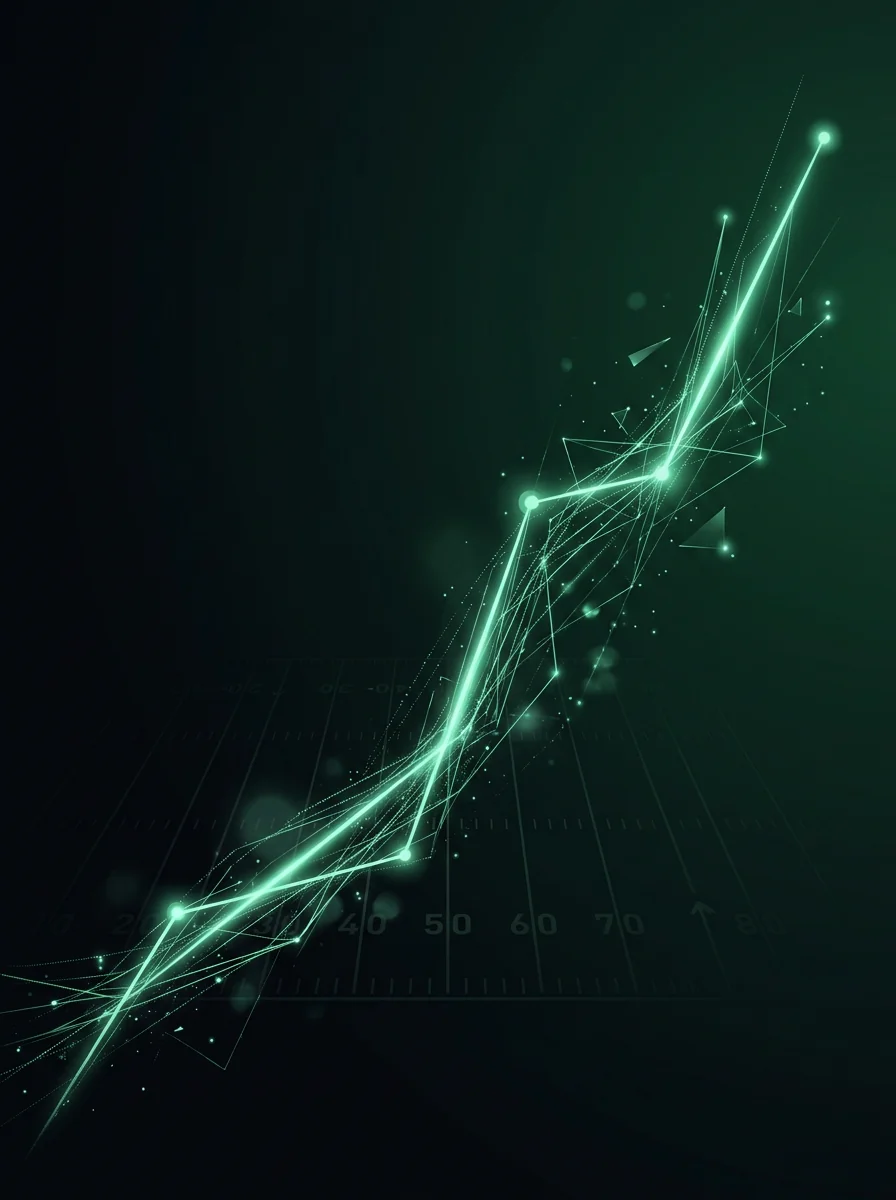
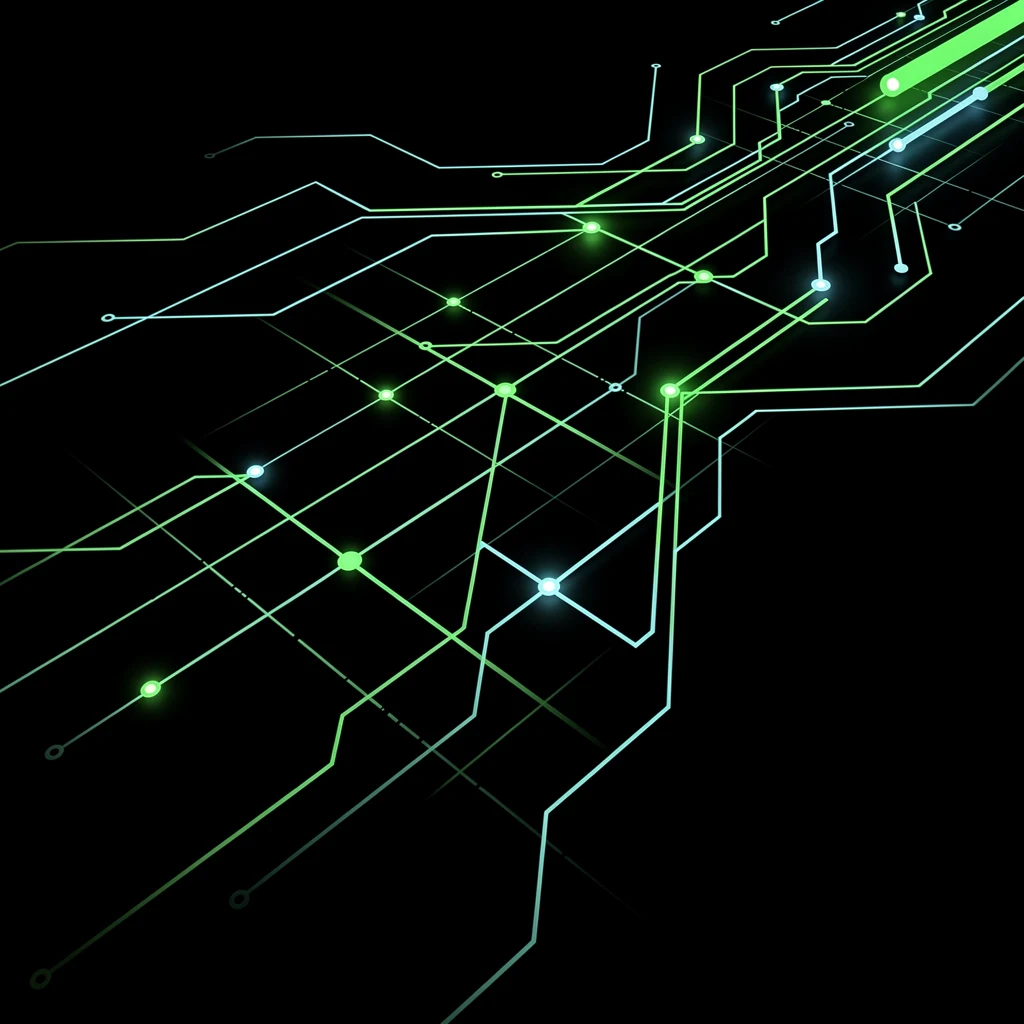
Design system refresh: zinc/emerald premium dark theme, app-wide
Full palette remap in :root — every component in this app already
reads color exclusively through CSS custom properties, so this one
token block cascades the new identity to every screen at once with
zero markup changes and zero risk of touching working logic:

- Background: real Tailwind zinc-950/900/800 (was a bespoke near-black
  green) — the "Linear meets Sleeper/DraftKings" slate/zinc look.
- Accent family: electric emerald-400 (primary, was a muted mint),
  cyan-400 (secondary/metrics), violet-400 (tertiary highlight),
  rose-400 (risk), amber-400 (caution) — semantic meaning preserved
  (green=good, red=risk) from the old palette, only the actual hex
  values move to a punchier, higher-contrast set.
- Real 4px spacing scale (--space-1 through --space-12) added for new
  work to reach for, rather than a risky mechanical retrofit of every
  existing hardcoded padding value across the whole stylesheet.
- New .lift-hover utility (real card hover-lift, reusing the exact
  --ease-snap spring already sourced from this app's own Figma file
  months ago — get_motion_context, CUSTOM_SPRING bounce: 0.45 — rather
  than a hand-guessed easing) — wired onto My Team's team cards now,
  a shared class any other card can opt into next.
- Real .tabular utility (font-variant-numeric: tabular-nums) for
  numerical data, applied to My Team's proj numbers; was already
  referenced by class name in three Start/Sit templates from an earlier
[…]

diff --git a/static/style.css b/static/style.css
@@ -1,44 +1,104 @@
+/* ==========================================================================
+   DESIGN SYSTEM REFRESH — zinc/slate premium dark theme, electric
+   emerald/cyan/violet accent family, a real 4px spacing scale. Every
+   component in this app already reads color/spacing exclusively through
+   these custom properties (no component hardcodes a hex value) — so
+   this one block is the entire visual identity of the app, and remapping
+   it cascades to every screen at once, safely, with zero markup changes.
+   Semantic meaning is preserved from the previous palette (green=good/
+   start, red=risk/sit, amber=caution, cyan=info, violet=highlight) —
+   only the actual hex values move to a punchier, higher-contrast set.
+   ========================================================================== */
 :root {
-  --bg: #07100c;
-  --panel: #0d1613;
-  --panel-2: #121f1a;
-  --panel-glass: rgba(19, 31, 26, 0.6);
-  --border: rgba(255,255,255,0.055);
-  --border-bright: rgba(87,226,164,0.22);
-  --text: #eef6f1;
-  --muted: #7f9689;
-  --accent: #5eeead;
-  --accent-dim: #2f9e6f;
-  --accent-glow: rgba(94, 238, 173, 0.35);
-  --brand: #1f6f52;
-  --pos: #5eeead;
-  --neg: #ff6b81;
-  --soft: #5eeead;
-  --tough: #ff6b81;
-  --avg: #e8c15c;
-  --info: #64c2ec;
-  --neg-glow: rgba(255, 107, 129, 0.35);
-  --avg-glow: rgba(232, 193, 92, 0.35);
-  --info-glow: rgba(100, 194, 236, 0.35);
-  --violet: #a78bfa;
-  --violet-glow: rgba(167, 139, 250, 0.35);
+  /* --- surfaces (real Tailwind zinc scale) --- */
+  --bg: #09090b;              /* zinc-950 */
+  --panel: #18181b;           /* zinc-900 */
+  --panel-2: #202023;         /* zinc-800, slightly warmed */
+  --panel-glass: rgba(24, 24, 27, 0.68);
+  --border: rgba(255,255,255,0.08);       /* reads close to zinc-800 (#27272a) on this bg */
+  --border-bright: rgba(52, 211, 153, 0.28);
+  --text: #fafafa;            /* zinc-50 — high-contrast headers */
+  --muted: #a1a1aa;           /* zinc-400 — subtle sub-labels, exactly as spec'd */
+  --muted-dim: #71717a;       /* zinc-500 — tertiary/caption text */
+
+  /* --- electric accent family --- */
+  --accent: #34d399;          /* emerald-400 — primary accent */
+  --accent-dim: #10b981;      /* emerald-500 — pressed/dim state */
+  --accent-glow: rgba(52, 211, 153, 0.38);
+  --brand: #059669;           /* emerald-600 */
+  --pos: #34d399;
+  --neg: #fb7185;             /* rose-400 — risk/sit */
+  --soft: #34d399;
+  --tough: #fb7185;
+  --avg: #fbbf24;             /* amber-400 — caution */
+  --info: #22d3ee;            /* cyan-400 — secondary/metrics */
+  --neg-glow: rgba(251, 113, 133, 0.38);
+  --avg-glow: rgba(251, 191, 36, 0.35);
+  --info-glow: rgba(34, 211, 238, 0.38);
+  --violet: #a78bfa;          /* violet-400 — tertiary highlight */
+  --violet-glow: rgba(167, 139, 250, 0.38);
+
+  /* --- 4px spacing rhythm (Tailwind-scale) — new work should reach for
+     these instead of one-off px values; existing components keep their
+     already-tuned spacing rather than a risky mechanical find/replace
+     across the whole stylesheet --- */
+  --space-1: 4px;
+  --space-2: 8px;
+  --space-3: 12px;
+  --space-4: 16px;
+  --space-5: 20px;
+  --space-6: 24px;
+  --space-8: 32px;
+  --space-10: 40px;
+  --space-12: 48px;
 
   --radius-sm: 8px;
   --radius: 16px;
   --radius-lg: 22px;
 
-  --shadow-sm: 0 1px 2px rgba(0,0,0,0.3);
-  --shadow: 0 1px 1px rgba(0,0,0,0.2), 0 10px 28px -8px rgba(0,0,0,0.55), 0 2px 10px -4px rgba(0,0,0,0.4);
-  --shadow-lift: 0 20px 44px -12px rgba(0,0,0,0.6), 0 0 0 1px rgba(255,255,255,0.04);
-  --shadow-glow: 0 1px 1px rgba(0,0,0,0.2), 0 10px 28px -8px rgba(0,0,0,0.55), 0 0 32px -6px var(--accent-glow);
+  --shadow-sm: 0 1px 2px rgba(0,0,0,0.4);
+  --shadow: 0 1px 1px rgba(0,0,0,0.3), 0 10px 28px -8px rgba(0,0,0,0.65), 0 2px 10px -4px rgba(0,0,0,0.5);
+  --shadow-lift: 0 24px 48px -14px rgba(0,0,0,0.7), 0 0 0 1px rgba(255,255,255,0.05);
+  --shadow-glow: 0 1px 1px rgba(0,0,0,0.3), 0 10px 28px -8px rgba(0,0,0,0.65), 0 0 32px -6px var(--accent-glow);
 
   --ease: cubic-bezier(0.16, 1, 0.3, 1);
+  /* the real spring already pulled from this app's own Figma file via
+     get_motion_context (CUSTOM_SPRING bounce: 0.45, confirmed live on
+     the Primary Button press and reused for every "pop" moment since —
+     the Projection Breakdown badge, Start/Sit's confidence rings/tier
+     badges) — --ease-snap stays the same real curve, only the palette
+     around it changed. New hover-lift micro-interactions below reuse it
+     too, rather than a hand-guessed easing. */
   --ease-snap: cubic-bezier(0.34, 1.56, 0.64, 1);
   --dur: 220ms;
 
   --mono: "Roboto Mono", ui-monospace, "SF Mono", "Cascadia Code", "JetBrains Mono", Menlo, Consolas, monospace;
   --sans: "Source Sans 3", -apple-system, BlinkMacSystemFont, "Segoe UI", Roboto, Inter, Arial, sans-serif;
 }
+
+/* Real, reusable hover-lift — the "card hover lift" micro-interaction
+   from the brief, as one shared utility class instead of one-off rules
+   per component, so every card-like surface in the app can opt in with
+   a single class. Uses the same real spring as everything else here. */
+.lift-hover {
+  transition: transform 220ms var(--ease-snap), box-shadow 220ms var(--ease), border-color 220ms var(--ease);
+}
+.lift-hover:hover {
+  transform: translateY(-3px);
+  box-shadow: var(--shadow-lift);
+  border-color: var(--border-bright);
+}
+@media (prefers-reduced-motion: reduce) {
+  .lift-hover { transition: box-shadow 220ms var(--ease), border-color 220ms var(--ease); }
+  .lift-hover:hover { transform: none; }
+}
+
+/* Real tabular-figures utility — the brief's "tabular figures for
+   numerical data" spec. A no-op on --mono text (Roboto Mono's digits
+   are already fixed-width by design) but meaningful anywhere a number
+   sits in a proportional font, and correct either way to reach for
+   explicitly rather than relying on which font happens to be in play. */
+.tabular { font-variant-numeric: tabular-nums; }
 
 * { box-sizing: border-box; }
 
@@ -1917,10 +1977,12 @@ tbody tr:last-child td { border-bottom: none; }
 }
 
 .myteam-card {
-  background: var(--panel);
+  background: var(--panel-glass);
+  -webkit-backdrop-filter: blur(14px) saturate(140%);
+  backdrop-filter: blur(14px) saturate(140%);
   border: 1px solid var(--border-bright);
   border-radius: var(--radius);
-  padding: 16px;
+  padding: var(--space-4);
   box-shadow: var(--shadow);
   position: relative;
   overflow: hidden;

diff --git a/static/app.js b/static/app.js
@@ -2051,7 +2051,7 @@ function rosterRowHtml(p, isBench) {
     <img ${headshotAttrs(p)} alt="">
     <span class="pos-badge">${esc(p.slot || p.position)}</span>
     <span>${esc(p.player_display_name)}${statusFlagsHtml(p)}</span>
-    <span class="proj-num">${FMT.d1(p.PROJ)}</span>
+    <span class="proj-num tabular">${FMT.d1(p.PROJ)}</span>
   </div>`;
 }
 
@@ -2066,11 +2066,11 @@ function teamCardHtml(team, kind) {
   const avatar = team.avatar_url
     ? `<img class="mt-avatar" src="${proxyImg(team.avatar_url)}" data-fb-emoji="🏈" alt="">`
     : `<span class="team-emoji">🏈</span>`;
-  return `<div class="myteam-card${kind === "opponent" ? " opponent" : ""}">
+  return `<div class="myteam-card lift-hover${kind === "opponent" ? " opponent" : ""}">
       <div class="mt-label">${kind === "mine" ? "MY TEAM" : "OPPONENT"}</div>
       <div class="mt-name-row">${avatar}<div class="mt-name">${esc(team.team_name)}</div></div>
       <div class="mt-total-lbl">PROJECTED (STARTERS)</div>
-      <div class="mt-total">${FMT.d1(team.total_proj)}</div>
+      <div class="mt-total tabular">${FMT.d1(team.total_proj)}</div>
       <div style="margin-top:14px">${rows}</div>
     </div>`;
 }
